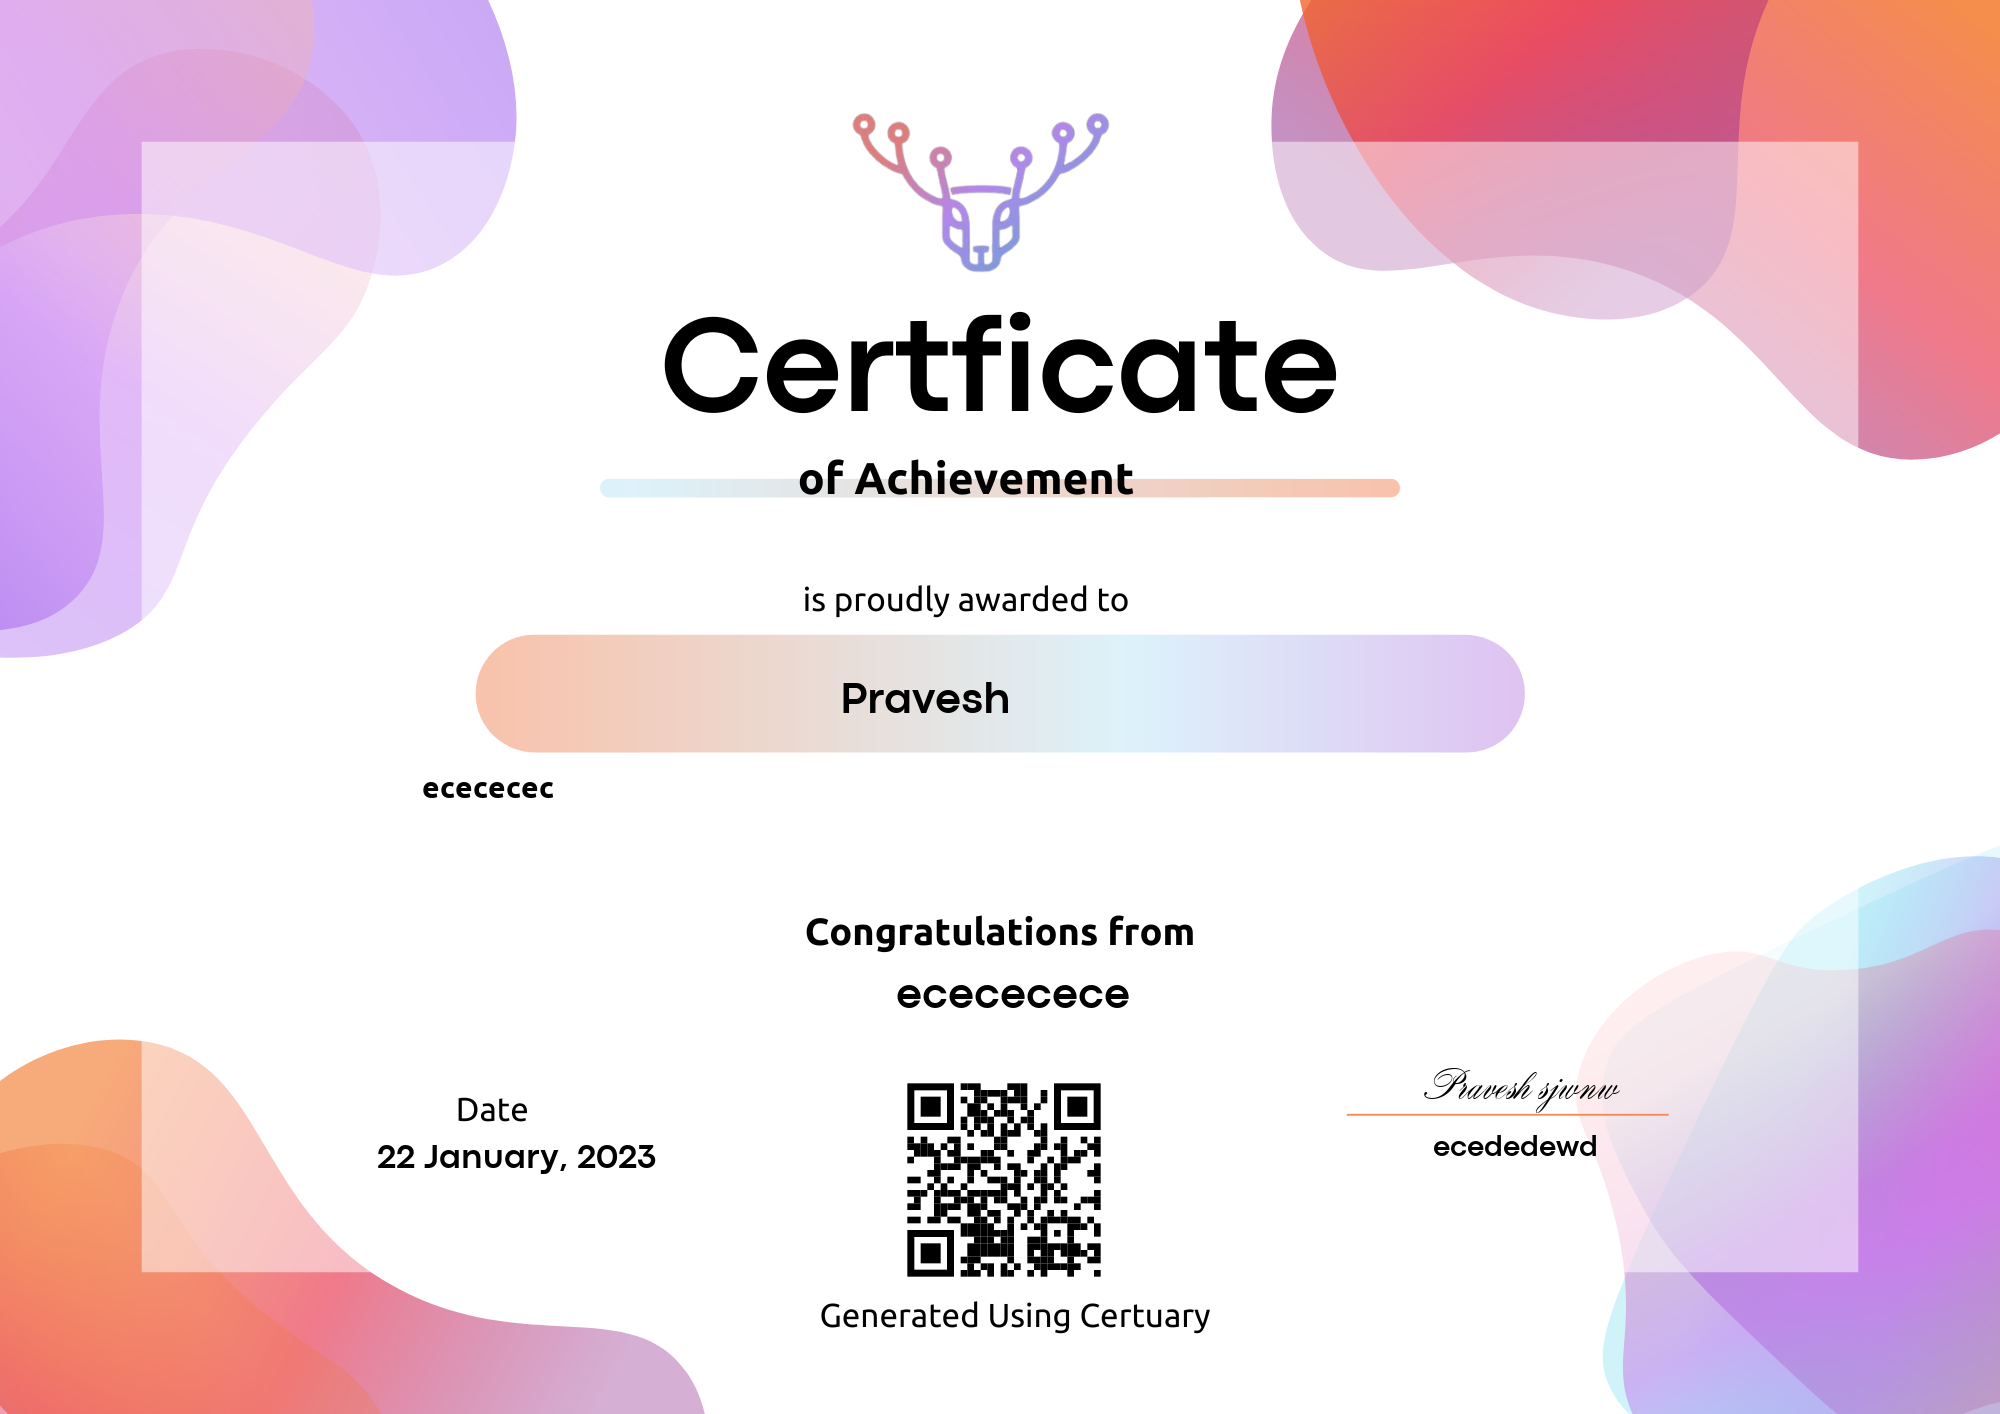
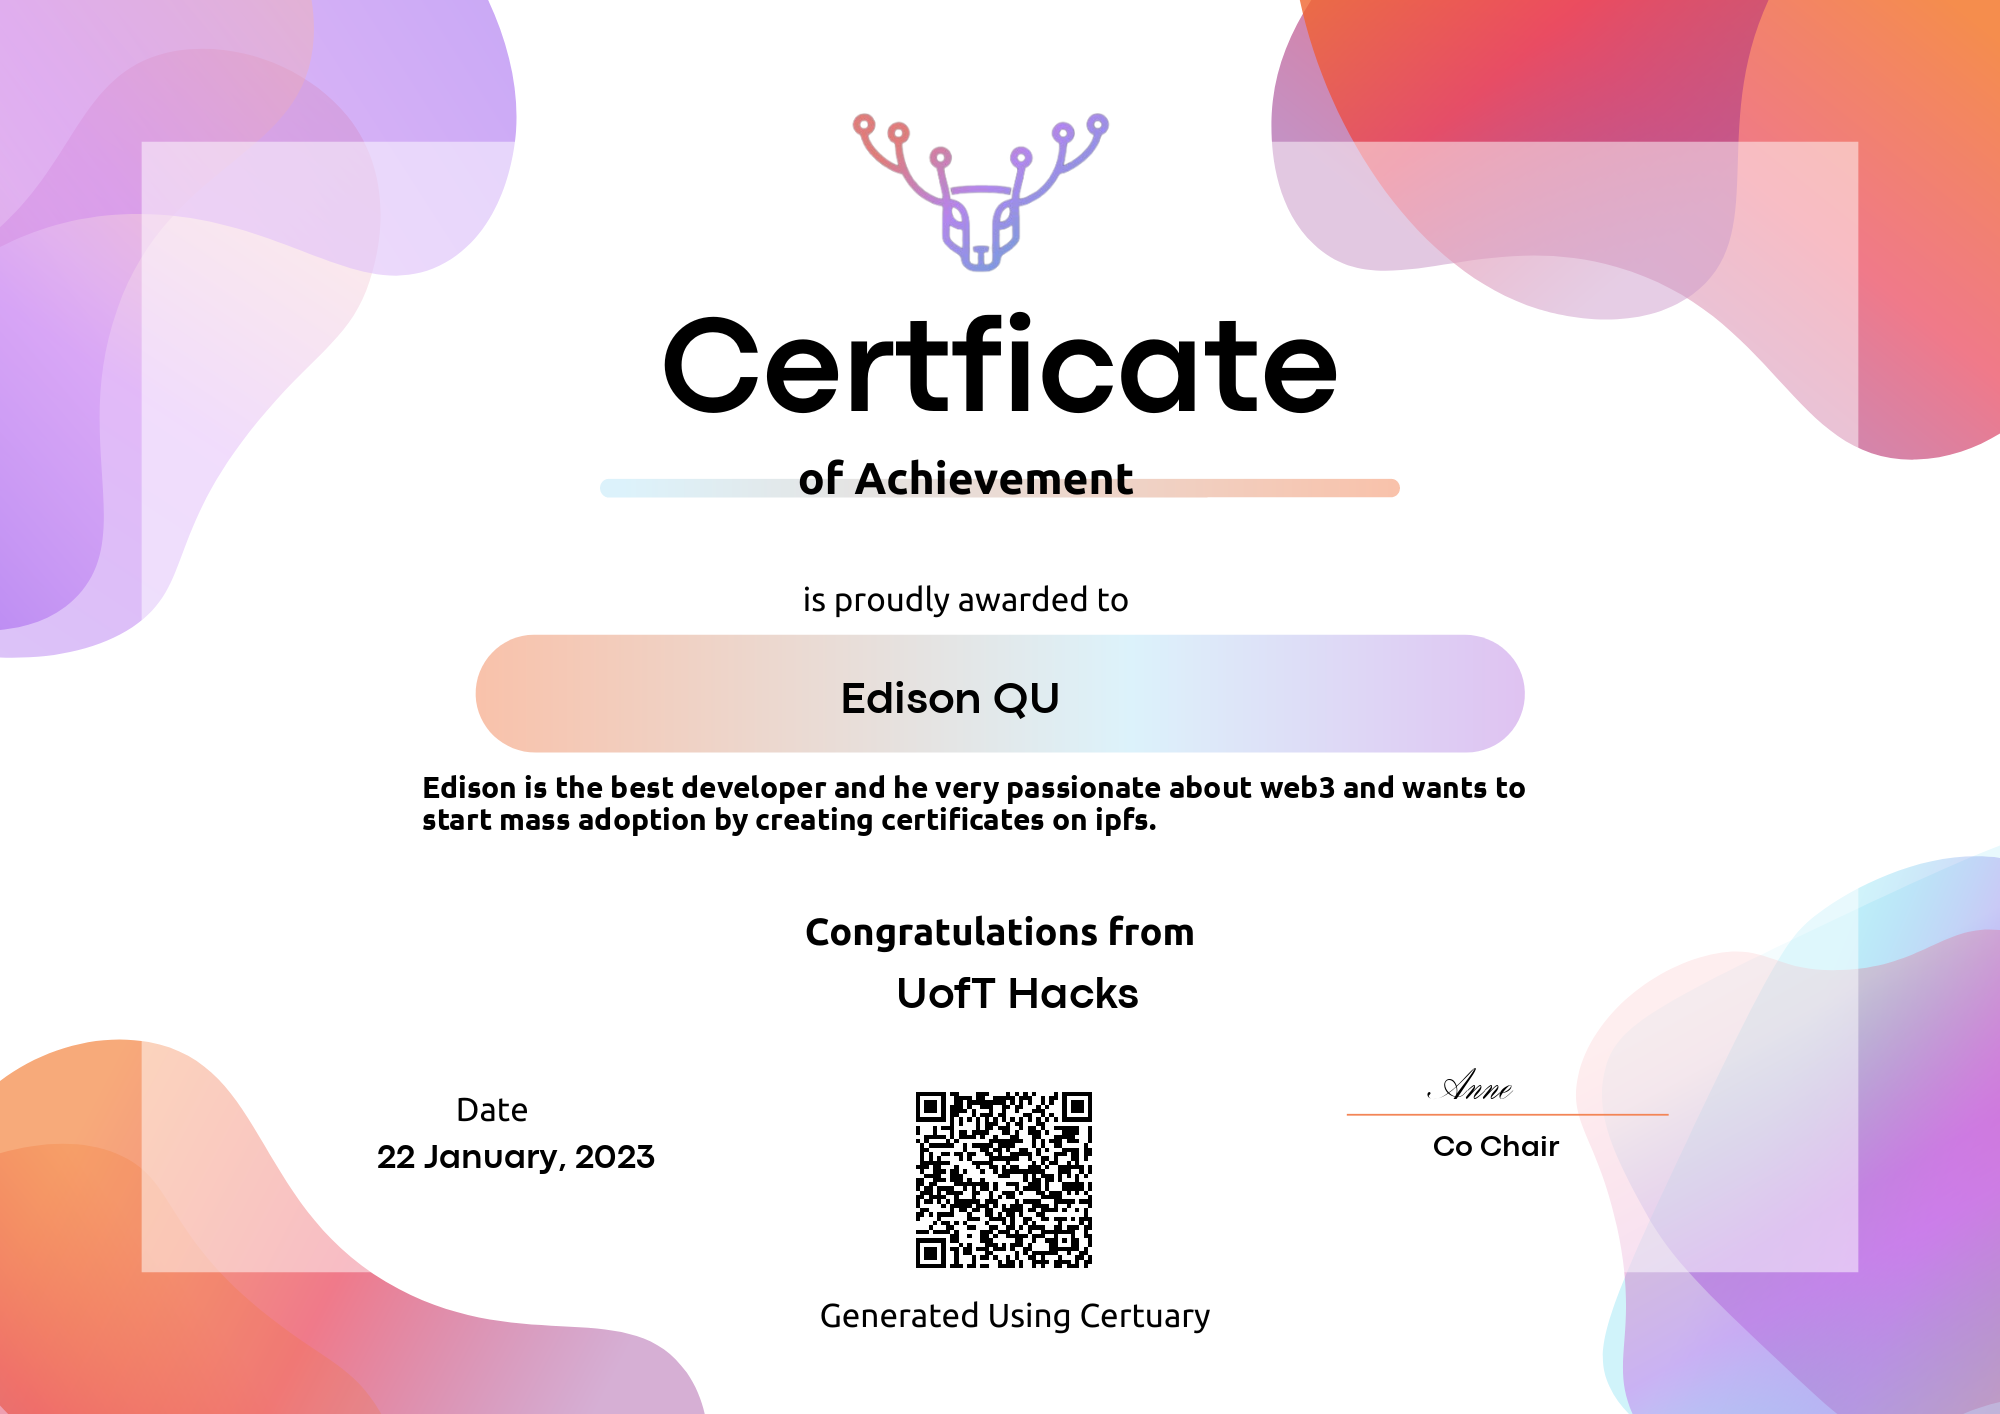
last commit

diff --git a/createCertificate.py b/createCertificate.py
@@ -1,40 +1,51 @@
+import io
+import os
+
+import dotenv
+import requests
+import requests as requests
 from PIL import Image, ImageFont, ImageDraw
 import datetime
 import textwrap
 
+from deta import Deta
+
+from generateQR import generateQR
+from pasteQR import pasteQR
+from pinToIPFS import pinToIPFS
 
 
-qr_img = Image.open('assets/sampleqrcode.png')
-# 996, 1166 pixel
-
-# fonts and image Variables
-img = Image.open('assets/Certificate.png')
-
-fnt_company = ImageFont.truetype(r'fonts/name.ttf', 45)
-fnt_description = ImageFont.truetype(r'fonts/general.ttf', 30)
-fnt_name = ImageFont.truetype(r'fonts/name.ttf', 45)
-fnt_date = ImageFont.truetype(r'fonts/name.ttf', 35)
-fnt_sign = ImageFont.truetype(r'fonts/sign.ttf', 45)
-fnt_role = ImageFont.truetype(r'fonts/name.ttf', 30)
-
-#Current date
-d = datetime.datetime.now()
-current_date = d.strftime("%d") + " " + d.strftime("%B") + ", " + d.strftime("%Y")
-
-
-#Input Variable
-name = input("Enter Name: ")
-sign = input("Enter Signature: ")
-desc = input("Enter Description: ")
-company = input("Enter Company Name: ")
-role = input("Enter Role: ")
 
 # Wrap text at a maximum line width of 80 characters
-formatted_description = textwrap.fill(desc, width=80)
 
 
 # main function
-def createCertificate(name, sign, description, company, role ):
+def createCertificate(name, sign, desc, company, role):
+    dotenv.load_dotenv()
+
+    description = textwrap.fill(desc, width=80)
+
+    deta = Deta("b0f571t2_7WegmFsVjsimbaHQPhZvpn9aZYv74M3E")
+    drive = deta.Drive('certificate')
+    content = drive.get('Certificate.png')
+    bytes_certificate = content.read()
+    content.close()
+
+
+    # qr_img = Image.open('assets/qr.png')
+
+    img = Image.open(io.BytesIO(bytes_certificate))
+
+    fnt_company = ImageFont.truetype(r'fonts/name.ttf', 45)
+    fnt_description = ImageFont.truetype(r'fonts/general.ttf', 30)
+    fnt_name = ImageFont.truetype(r'fonts/name.ttf', 45)
+    fnt_date = ImageFont.truetype(r'fonts/name.ttf', 35)
+    fnt_sign = ImageFont.truetype(r'fonts/sign.ttf', 45)
+    fnt_role = ImageFont.truetype(r'fonts/name.ttf', 30)
+
+    #Current date
+    d = datetime.datetime.now()
+    current_date = d.strftime("%d") + " " + d.strftime("%B") + ", " + d.strftime("%Y")
     draw = ImageDraw.Draw(img)
 
     # Date
@@ -65,12 +76,39 @@ def createCertificate(name, sign, description, company, role ):
         draw.text((1426, 1060), sign, font=fnt_sign, fill=(0, 0, 0))
 
     #QR Code
-    img.paste(qr_img, (894, 1070))
+    # img.paste(qr_img, (894, 1070))
     img.save('tmp/minted-certificate.png')
-    return 0
+
+    # create and use as many Drives as you want!
+    photos = deta.Drive("certificate")
+
+
+    with open("tmp/minted-certificate.png", 'rb') as f:
+        file = f.read()
+
+    url = "https://api.estuary.tech/content/add"
+    # print(bytes_certificate)
+    name = 'faewfaw'
+
+    payload = {}
+    files = [
+        (('data', (f'{name}', file), 'application/octet-stream'))
+    ]
+    headers = {
+        'Accept': 'application/json',
+        'Authorization': 'Bearer ESTf4be2f1c-dd16-4813-a6d5-0dad7ec0b0d3ARY'
+    }
+
+    response = requests.request("POST", url, headers=headers, data=payload, files=files)
+
+
+    # print(res)
+
+    photos.put("/works/minted-certificate.png", img_bytes)
+
+    return response
 
 
 
 
 
-createCertificate(name, sign, formatted_description, company, role)

diff --git a/main.py b/main.py
@@ -1,6 +1,18 @@
 from flask import Flask, request
 from datetime import date
+
+from generateQR import generateQR
+from pasteQR import pasteQR
+from pinToIPFS import pinToIPFS
+from flask_cors import CORS, cross_origin
+
+
+from createCertificate import createCertificate
+from verify_cid import verify_cid
+
 app = Flask(__name__)
+CORS(app, support_credentials=True)
+
 
 
 @app.route('/')
@@ -8,21 +20,35 @@ def hello_world():  # put application's code here
     return 'Hello World!'
 
 # TODO: Deta Link, Front and Backend Integration
-@app.route('/createCertificate',methods = ["POST"])
-def create_invoice():
-    name = request.json['name']
-    description = request.json['description']
-    company_name = request.json['company']
-    organizer_name = request.json['oname']
-    organizer_role = request.json['role']
-    date_issued = date.today().strftime("%B %d, %Y")
 
-    return date_issued
+
+@app.route('/createCertificate',methods = ["POST"])
+@cross_origin(supports_credentials=True)
+def create_invoice():
+
+    name = request.json['name']
+    desc = request.json['description']
+    company = request.json['company']
+    sign = request.json['oname']
+    role = request.json['role']
+    date_issued = date.today().strftime("%B %d, %Y")
+    res = createCertificate(name,sign,desc,company,role)
+    new = (pasteQR(res['value']['cid']))
+
+
+    return new['value']['cid']
 
 @app.route('/verify/<CID>', methods=["POST"])
+@cross_origin(supports_credentials=True)
 def verify(CID):
-    return f'CID is {CID}'
+    return verify_cid(CID)
 
+
+@app.route('/mint',methods=['GET'])
+@cross_origin(supports_credentials=True)
+def mint():
+    response = pinToIPFS()
+    return response
 
 
 

diff --git a/pinToIPFS.py b/pinToIPFS.py
@@ -1,25 +1,38 @@
 import os
+from io import BytesIO
+
 import requests
+from deta import Deta
 from dotenv import load_dotenv
 
-load_dotenv()  # take environment variables from .env.
-API_KEY = os.getenv("API_KEY")
 
-FILENAME="/Users/edisonqu/Downloads/anna_library1.jpg"
-url = "https://api.estuary.tech/content/add"
+def pinToIPFS():
+  # load_dotenv()  # take environment variables from .env.
+  # API_KEY = os.getenv("API_KEY")
+  # deta = Deta("b0f571t2_7WegmFsVjsimbaHQPhZvpn9aZYv74M3E")
+  # drive = deta.Drive('certificate')
+  # content = drive.get('Certificate.png')
+  # bytes_certificate = content.read()
+  # content.close()
 
-name = 'anna_edison'
-payload={}
-files=[
-  ('data',(f'{name}',open(FILENAME,'rb'),'application/octet-stream'))
-]
-headers = {
-  'Accept': 'application/json',
-  'Authorization': 'Bearer ESTf4be2f1c-dd16-4813-a6d5-0dad7ec0b0d3ARY'
-}
+  FILENAME="tmp/minted-certificate.png"
+  url = "https://api.estuary.tech/content/add"
+  # print(bytes_certificate)
+  name = 'faewfaw'
+
+  payload={}
+  files=[
+    ('data',(f'{name}',open(FILENAME, 'rb'),'application/octet-stream'))
+  ]
+  headers = {
+    'Accept': 'application/json',
+    'Authorization': 'Bearer ESTf4be2f1c-dd16-4813-a6d5-0dad7ec0b0d3ARY'
+  }
 
 
-response = requests.request("POST", url, headers=headers, data=payload, files=files)
+  response = requests.request("POST", url, headers=headers, data=payload, files=files)
 
 
-print(response.text)
+  return response
+
+pinToIPFS()

diff --git a/generateQR.py b/generateQR.py
@@ -2,19 +2,26 @@ import qrcode
 import qrcode.image.svg
 from PIL import Image
 
+from verify_cid import verify_cid
 
-input_data = "https://bafkreigbd5f56mztpwnlkghlkxb7r2fmmpdky3prbroxpqcxdkiqqaq6wu.ipfs.dweb.link/"
-#Creating an instance of qrcode
-qr = qrcode.QRCode(
-        version=1,
-        box_size=10,
-        border=5)
-qr.add_data(input_data)
-qr.make(fit=True)
 
-# factory = qrcode.image.svg.SvgPathImage
-# img = qrcode.make(input_data, image_factory = factory)
+def generateQR(CID):
+        # input_data = f"https://{CID}.ipfs.dweb.link/"
 
-img = qr.make_image(fill='black', back_color='white')
-img.save('qr.png')
+        input_data= f"https://nf9dlh.deta.dev/verify/{CID}"
+        #Creating an instance of qrcode
+        qr = qrcode.QRCode(
+                version=1,
+                box_size=10,
+                border=5)
+        qr.add_data(input_data)
+        qr.make(fit=True)
 
+        # factory = qrcode.image.svg.SvgPathImage
+        # img = qrcode.make(input_data, image_factory = factory)
+
+        img = qr.make_image(fill='black', back_color='white')
+        img.save('assets/qr.png')
+        return input_data
+
+print(generateQR("bafybeidr6g2jm64uv4gzdtg4ukun6fqg4df2vg6zdvgcllmt7qfi3wry5i"))

diff --git a/pasteQR.py b/pasteQR.py
@@ -1,0 +1,41 @@
+import os
+
+import dotenv
+import requests
+from PIL import Image
+
+from generateQR import generateQR
+
+
+def pasteQR(CID):
+    dotenv.load_dotenv()
+
+    generateQR(CID)
+    img  = Image.open('tmp/minted-certificate.png')
+    qr_img = Image.open('assets/qr.png')
+    qr_img = qr_img.resize((220,220))
+    img.paste(qr_img, (894, 1070))
+    img.save('tmp/minted-certificate.png')
+
+
+    with open("tmp/minted-certificate.png", 'rb') as f:
+        file = f.read()
+
+    url = "https://api.estuary.tech/content/add"
+    # print(bytes_certificate)
+    name = 'faewfaw'
+
+    payload = {}
+    files = [
+        ('data', (f'{name}', file, 'application/octet-stream'))
+    ]
+    headers = {
+        'Accept': 'application/json',
+        'Authorization': 'Bearer ESTf4be2f1c-dd16-4813-a6d5-0dad7ec0b0d3ARY'
+    }
+
+    response = requests.request("POST", url, headers=headers, data=payload, files=files)
+
+    return response
+
+

diff --git a/verify_cid.py b/verify_cid.py
@@ -9,8 +9,10 @@ def verify_cid(CID):
     }
     url = f'https://api.estuary.tech/public/by-cid/{CID}'
     response = requests.request('GET',url=url,headers=headers)
-
-    return response.text
+    if response.text == "[]\n":
+        return {"Sorry it is not verified."}
+    else:
+        return {"The CID is valid and from certuary":response.json()}
 
 # print(verify_cid('bafkreib2f2diqig2yqjpopdpb2jgxeyuimfgbua2m4ipinu2x5o3izj25q'))
-print(verify_cid('bafybeie5begtaycfhqkuiekqob6pjbi4eb3wcv475jalmp7h326npl2ixi'))
+# print((verify_cid('bafybeie5begtaycfhqkuiekqob6pjbi4eb3wcv475jalmp7h326npl2ixi')))

diff --git a/put_to_drive.py b/put_to_drive.py
@@ -1,0 +1,12 @@
+from deta import Deta
+
+# Initialize with a Project Key
+deta = Deta("b0f571t2_7WegmFsVjsimbaHQPhZvpn9aZYv74M3E")
+
+# with open("/Users/edisonqu/PycharmProjects/certuary/assets/Certificate.png", "rb") as image:
+    # f = image.read()
+
+# create and use as many Drives as you want!
+photos = deta.Drive("certificate")
+
+photos.put("/font/Certificate.png","/Users/edisonqu/PycharmProjects/certuary/fonts/general.ttf")
